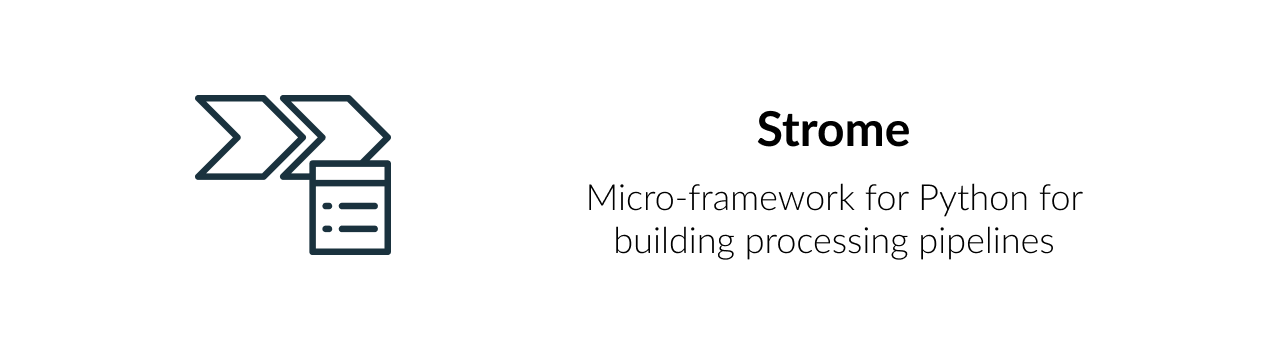
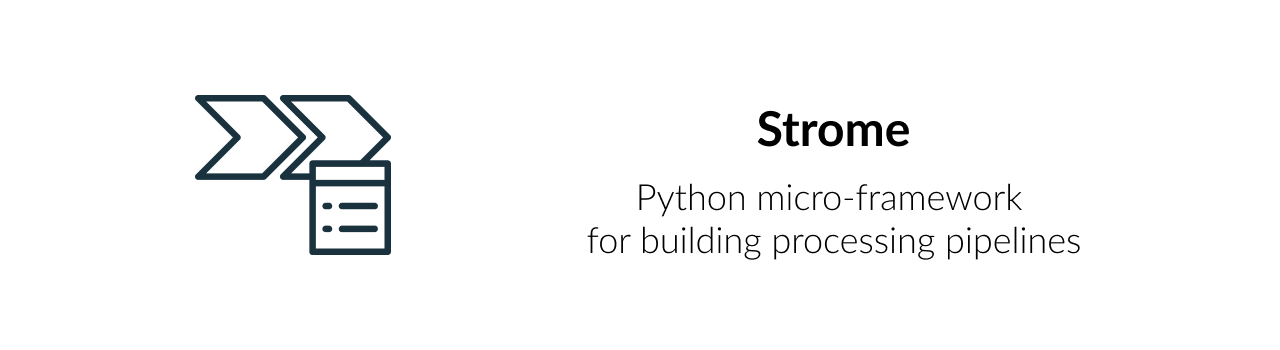
initial

Changed region(s): [[0.4375, 0.6286, 0.8438, 0.7429], [0.4375, 0.5143, 0.8438, 0.6]]

diff --git a/README.md b/README.md
@@ -2,7 +2,7 @@
 
 <h2 align="center">Strome</h2>
 
-**Strome** (from Danish `Stromen` _/ˈstroː.mə(n)/_, stream) is a micro-framework for Python for building processing pipelines.
+**Strome** (from Danish `Stromen` _/ˈstroː.mə(n)/_, stream) is a Python micro-framework for building processing pipelines.
 
 # Credits
 
